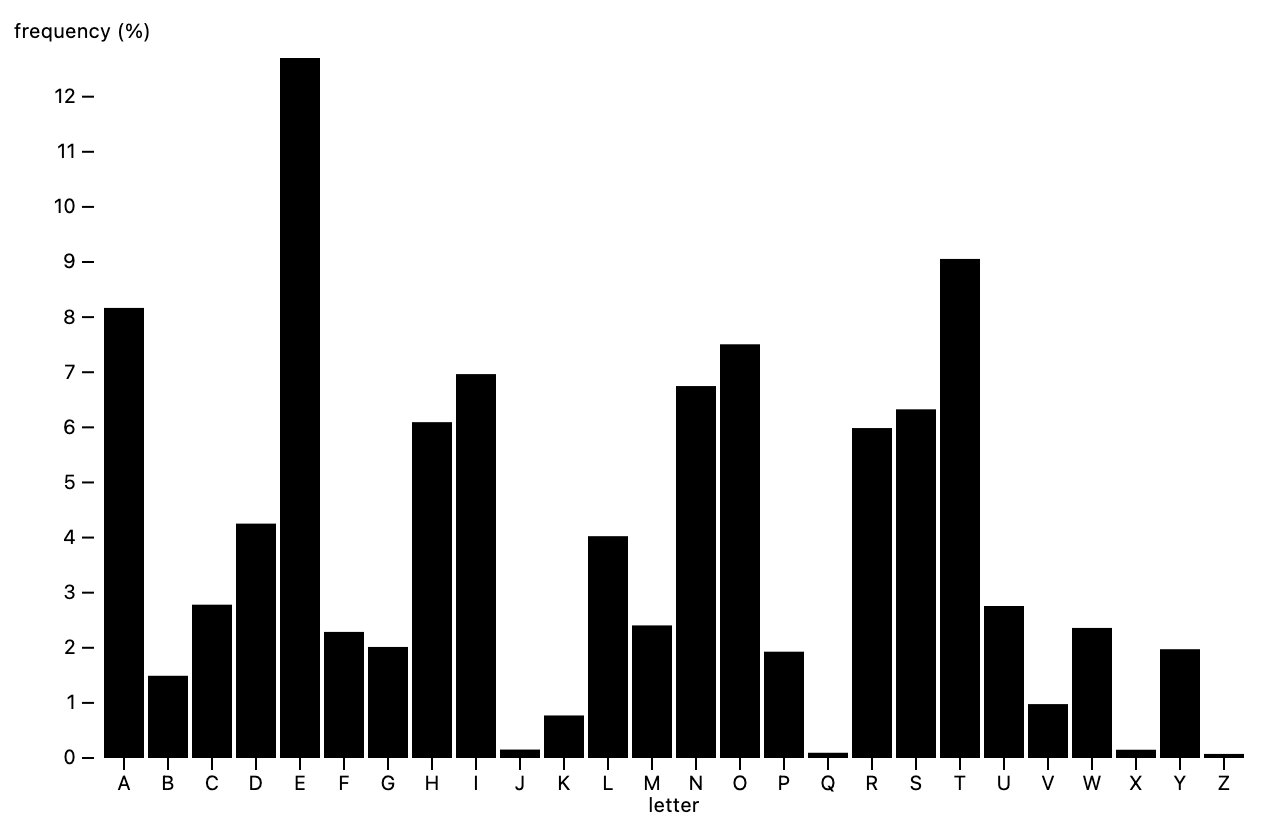
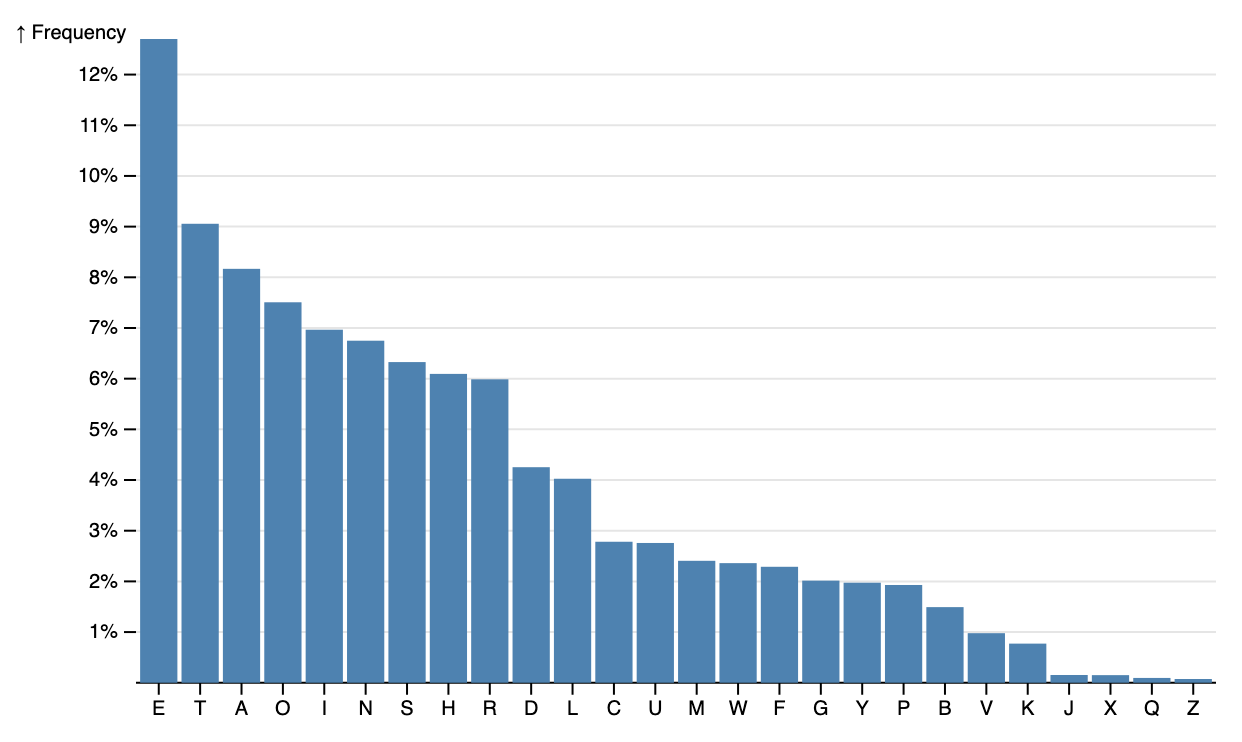
fix: rework BarChart to pure d3 implementation

diff --git a/docs/pages/examples/bar.tsx b/docs/pages/examples/bar.tsx
@@ -1,9 +1,21 @@
 import * as React from 'react';
-import * as Plot from '@observablehq/plot';
 import Head from 'next/head';
+import * as d3 from 'd3';
 
 import { readData } from '../../helpers/server';
 import { withViewer } from '../../components/Viewer';
+
+const dimensions = {
+  width: 640,
+  height: 400,
+};
+
+const margin = {
+  top: 40,
+  left: 60,
+  right: 40,
+  bottom: 40,
+};
 
 interface Letter {
   letter: string;
@@ -15,31 +27,75 @@ interface Props {
 }
 
 const Chart: React.FC<Props> = ({ data }) => {
-  const root = React.useRef<HTMLDivElement>(null);
+  const xDomain = new d3.InternSet(d3.map(data, (d) => d.letter));
+
+  const x = d3
+    .scaleBand(xDomain, [margin.left, dimensions.width - margin.right])
+    .padding(0.1);
+  const y = d3.scaleLinear(d3.extent(d3.map(data, (d) => d.frequency)), [
+    dimensions.height - margin.bottom,
+    margin.top,
+  ]);
+
+  const xAxis = d3.axisBottom(x).tickSizeOuter(0);
+  const yAxis = d3.axisLeft(y).ticks(dimensions.height / 40, '%');
+
+  const xAxisRef = React.useRef<SVGGElement>(null);
+  const yAxisRef = React.useRef<SVGGElement>(null);
 
   React.useEffect(() => {
-    const node = root.current;
+    const xAx = xAxisRef.current;
+    const yAx = yAxisRef.current;
 
-    const plot = Plot.plot({
-      y: {
-        label: 'frequency (%)',
-      },
-      marks: [
-        Plot.barY(data, {
-          x: 'letter',
-          y: (d: Letter): number => d.frequency * 100,
-        }),
-      ],
-    });
+    d3.select(xAx).call(xAxis);
+    d3.select(yAx)
+      .call(yAxis)
+      .call((g) => g.select('.domain').remove())
+      .call((g) =>
+        g
+          .selectAll('.tick line')
+          .clone()
+          .attr('x2', dimensions.width - margin.left - margin.right)
+          .attr('stroke-opacity', 0.1)
+      )
+      .call((g) =>
+        g
+          .append('text')
+          .attr('x', -margin.left)
+          .attr('y', margin.top)
+          .attr('fill', 'currentColor')
+          .attr('text-anchor', 'start')
+          .text('↑ Frequency')
+      );
 
-    node.appendChild(plot);
-
-    return (): void => {
-      node.removeChild(plot);
+    return () => {
+      d3.select(yAx).call((g) => g.selectAll('.tick line ~ line').remove());
     };
-  }, [data]);
+  }, [xAxis, yAxis]);
 
-  return <div ref={root}></div>;
+  return (
+    <svg
+      width={`${dimensions.width}`}
+      height={`${dimensions.height}`}
+      viewBox={`0 0 ${dimensions.width} ${dimensions.height}`}
+      className="block h-auto max-w-full"
+    >
+      <g ref={xAxisRef} transform={`translate(0, ${y(0)})`}></g>
+      <g ref={yAxisRef} transform={`translate(${margin.left}, 0)`}></g>
+      <g>
+        {data.map((d) => (
+          <rect
+            key={d.letter}
+            x={x(d.letter)}
+            y={y(d.frequency)}
+            width={x.bandwidth()}
+            height={y(0) - y(d.frequency)}
+            fill="steelblue"
+          />
+        ))}
+      </g>
+    </svg>
+  );
 };
 
 const BarChart: React.FC<Props> = ({ data }) => {
@@ -51,8 +107,8 @@ const BarChart: React.FC<Props> = ({ data }) => {
       {React.createElement(
         withViewer(Chart, {
           data,
-          href: 'https://observablehq.com/@observablehq/plot-bar?collection=@observablehq/plot',
-          title: 'From Observable — Plot: Bar',
+          href: 'https://observablehq.com/@d3/bar-chart',
+          title: 'From D3 on Observable — Bar Chart',
         })
       )}
     </>

diff --git a/docs/pages/examples/stacked-bar.tsx b/docs/pages/examples/stacked-bar.tsx
@@ -66,23 +66,23 @@ const Chart: React.FC<Props> = ({ data }) => {
   const yDomain = d3.extent(series.flat(2));
 
   // Set up x, y, and color scales.
-  const xScale = d3
+  const x = d3
     .scaleBand(xDomain, [margin.left, dimensions.width - margin.right])
     .paddingInner(0.1);
-  const yScale = d3.scaleLinear(yDomain, [
+  const y = d3.scaleLinear(yDomain, [
     dimensions.height - margin.bottom,
     margin.top,
   ]);
-  const colorScale = d3.scaleOrdinal(zDomain, d3.schemeTableau10);
+  const color = d3.scaleOrdinal(zDomain, d3.schemeTableau10);
 
   // Define axis generators.
   const xAxis = d3
-    .axisBottom(xScale)
+    .axisBottom(x)
     .tickSizeOuter(0)
     .tickFormat((d) =>
       new Date(d).toLocaleString('default', { month: 'short' })
     );
-  const yAxis = d3.axisLeft(yScale).ticks(dimensions.height / 60);
+  const yAxis = d3.axisLeft(y).ticks(dimensions.height / 60);
 
   const xAxisRef = React.useRef<SVGGElement>(null);
   const yAxisRef = React.useRef<SVGGElement>(null);
@@ -116,20 +116,20 @@ const Chart: React.FC<Props> = ({ data }) => {
       viewBox={`0 0 ${dimensions.width} ${dimensions.height}`}
       className="block h-auto max-w-full"
     >
-      <g ref={xAxisRef} transform={`translate(0, ${yScale(0)})`}></g>
+      <g ref={xAxisRef} transform={`translate(0, ${y(0)})`}></g>
       <g ref={yAxisRef} transform={`translate(${margin.left},0)`}></g>
       <g>
         {series.map((datum, i) => {
-          const fill = colorScale(datum.key);
+          const fill = color(datum.key);
           return (
             <g key={i} fill={fill}>
               {datum.map((d, i) => (
                 <rect
                   key={i}
-                  x={xScale(Array.from(xDomain)[i])}
-                  y={Math.min(yScale(d[0]), yScale(d[1]))}
-                  height={Math.abs(yScale(d[0]) - yScale(d[1]))}
-                  width={xScale.bandwidth()}
+                  x={x(Array.from(xDomain)[i])}
+                  y={Math.min(y(d[0]), y(d[1]))}
+                  height={Math.abs(y(d[0]) - y(d[1]))}
+                  width={x.bandwidth()}
                 />
               ))}
             </g>
@@ -150,7 +150,7 @@ const StackedBarChart: React.FC<Props> = ({ data }) => {
         withViewer(Chart, {
           data,
           href: 'https://observablehq.com/@d3/stacked-bar-chart',
-          title: 'From D3 — Stacked Bar Chart',
+          title: 'From D3 on Observable — Stacked Bar Chart',
         })
       )}
     </>

diff --git a/docs/helpers/metadata.tsx b/docs/helpers/metadata.tsx
@@ -15,7 +15,7 @@ interface ExampleMeta {
 export const metadata: Record<string, ExampleMeta> = {
   bar: {
     src: BarThumbnail,
-    alt: 'The example bar chart used in the Observable Plot documentation on the Bar Mark. The chart shows the frequency of each letter in the English language.',
+    alt: "A modification of Mike Bostock's Bar Chart example using D3. The chart shows the frequency of each letter in the English language.",
   },
   bubble: {
     src: BubbleThumbnail,
